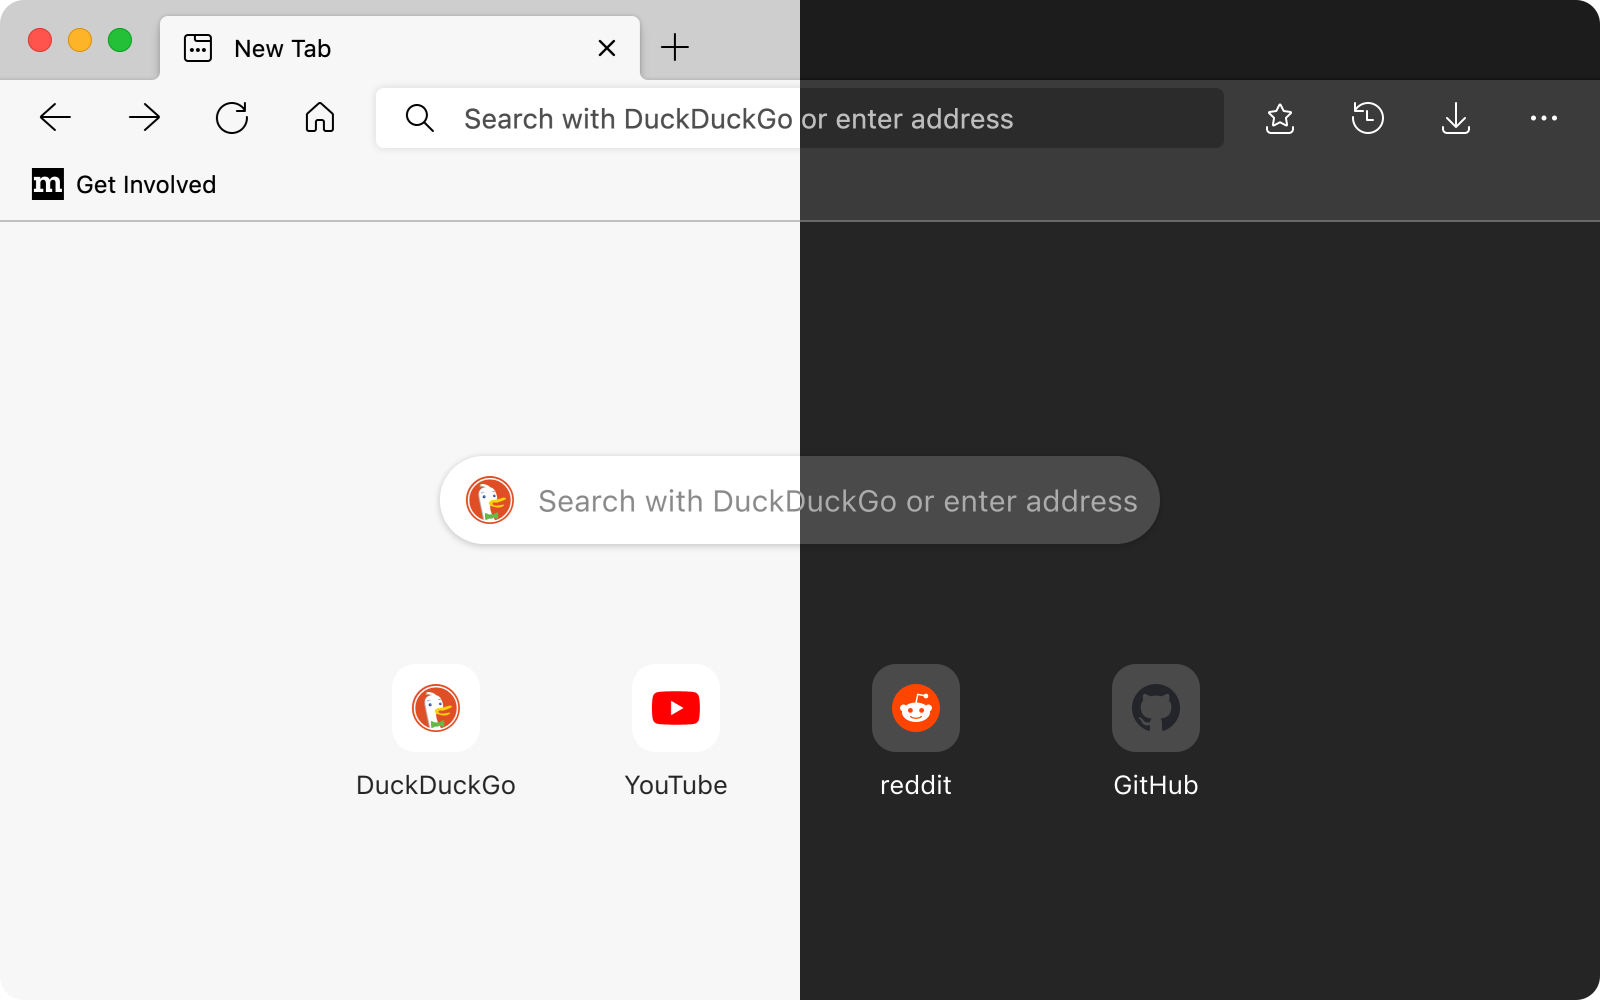
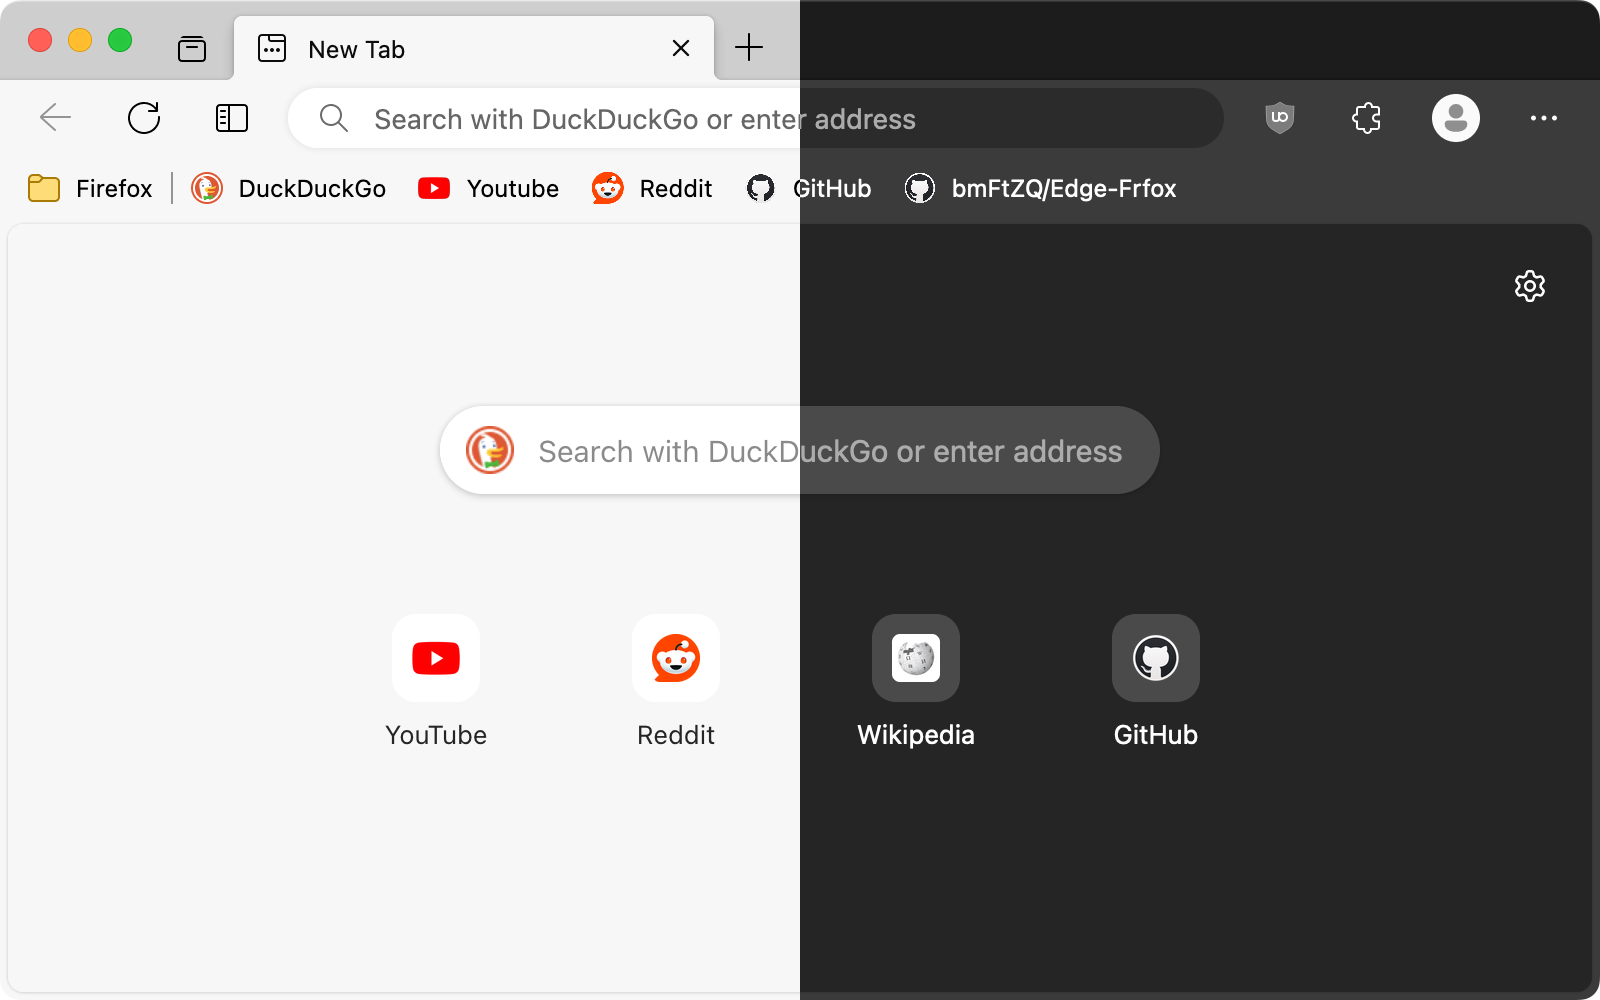
Update screenshots
Updated screenshots for the thumbnail and previews. Linux/GTK screenshot
has been removed for now, but a new one will be added later.

Screenshots updated include:
 * Thumbnail (macOS)
 * Default (Windows 11)
 * Floating Tabs + Rounded Corners (Windows 11)
 * Hide Tabs Bar + Rounded Corners (macOS)

diff --git a/README.md b/README.md
@@ -1,8 +1,10 @@
 # Edge-Frfox
-A Firefox userChrome.css theme that aims to recreate the look and feel of the Chromium version of Microsoft Edge.
+A Firefox userChrome.css theme that aims to recreate the look and feel of Microsoft Edge.
 
-<!-- use <img> element to set a maximum width -->
-<img src="screenshots/thumbnail.png" alt="thumbnail screenshot" title="Screenshot taken with macOS Monterey / Firefox Nightly 96.0a1 (2021-11-30)" width="800">
+<!-- Use <img> element to set a maximum width. -->
+<img src="screenshots/thumbnail.png" alt="Edge-Frfox theme thumbail screenshot." width="800">
+
+Screenshot: macOS / Firefox 120 / Tweaks: rounded corners, hide forward button.
 
 ## How to install
 1. Go to `about:support` and click the "Open Folder/Show in Finder" button for the root directory of your browser profile/s.
@@ -27,16 +29,16 @@ A Firefox userChrome.css theme that aims to recreate the look and feel of the Ch
    ### Optional:
    * To use the light theme in private browsing mode set `browser.theme.dark-private-windows` = `false`
 
-   Additional tweaks can also be applied to the theme, such as Floating Tabs, rounded browser corners and more. See [Tweaks](#tweaks).
+   Additional tweaks can also be applied to the theme, such as Floating tabs, Rounded browser corners and more. See [Tweaks](#tweaks).
 
 **Note: Most frequently tested on macOS**
 
 ## Screenshots
-| Theme                               | Light                         | Dark                         |
-| ----------------------------------- | ----------------------------- | ---------------------------- |
-| Default (Windows 11)                | ![Light][s-l]                 | ![Dark][s-d]                 |
-| Floating Tabs (Windows 11)          | ![Light, Floating Tabs][s-lf] | ![Dark, Floating Tabs][s-df] |
-| GTK (GNOME 42, [adw-gtk3][1] theme) | ![Light, GTK][s-lgtk]         | ![Dark, GTK][s-dgtk]         |
+| Theme                                        | Light                                    | Dark                                   |
+| -------------------------------------------- | ---------------------------------------- | -------------------------------------- |
+| Default (Windows 11)                         | ![Light][s-light]                        | ![Dark][s-dark]                        |
+| Floating Tabs + Rounded Corners (Windows 11) | ![Light, Floating Tabs][s-light-ft]      | ![Dark, Floating Tabs][s-dark-ft]      |
+| Hide Tabs Bar + Rounded Corners (macOS)      | ![Light, Hide Tabs Bar][s-light-mac-htb] | ![Dark, Hide Tabs Bar][s-dark-mac-htb] |
 
 ## Tweaks
 Certain tweaks can be applied to the theme, to enable them navigate to `about:config` and create a boolean key for each tweak you want to use and set it to `true`, then restart the browser.
@@ -123,11 +125,11 @@ delete it.
 [1]: https://github.com/lassekongo83/adw-gtk3
 
 <!-- light mode screenshot links -->
-[s-l]: screenshots/light.png
-[s-lf]: screenshots/light-floating-tabs.png
-[s-lgtk]: screenshots/gtk-light.png
+[s-light]: screenshots/Windows_default_light.png
+[s-light-ft]: screenshots/Windows_floating-tabs_light.png
+[s-light-mac-htb]: screenshots/macOS_hide-tabs-bar_light.png
 
 <!-- dark mode screenshot links -->
-[s-d]: screenshots/dark.png
-[s-df]: screenshots/dark-floating-tabs.png
-[s-dgtk]: screenshots/gtk-dark.png
+[s-dark]: screenshots/Windows_default_dark.png
+[s-dark-ft]: screenshots/Windows_floating-tabs_dark.png
+[s-dark-mac-htb]: screenshots/macOS_hide-tabs-bar_dark.png
